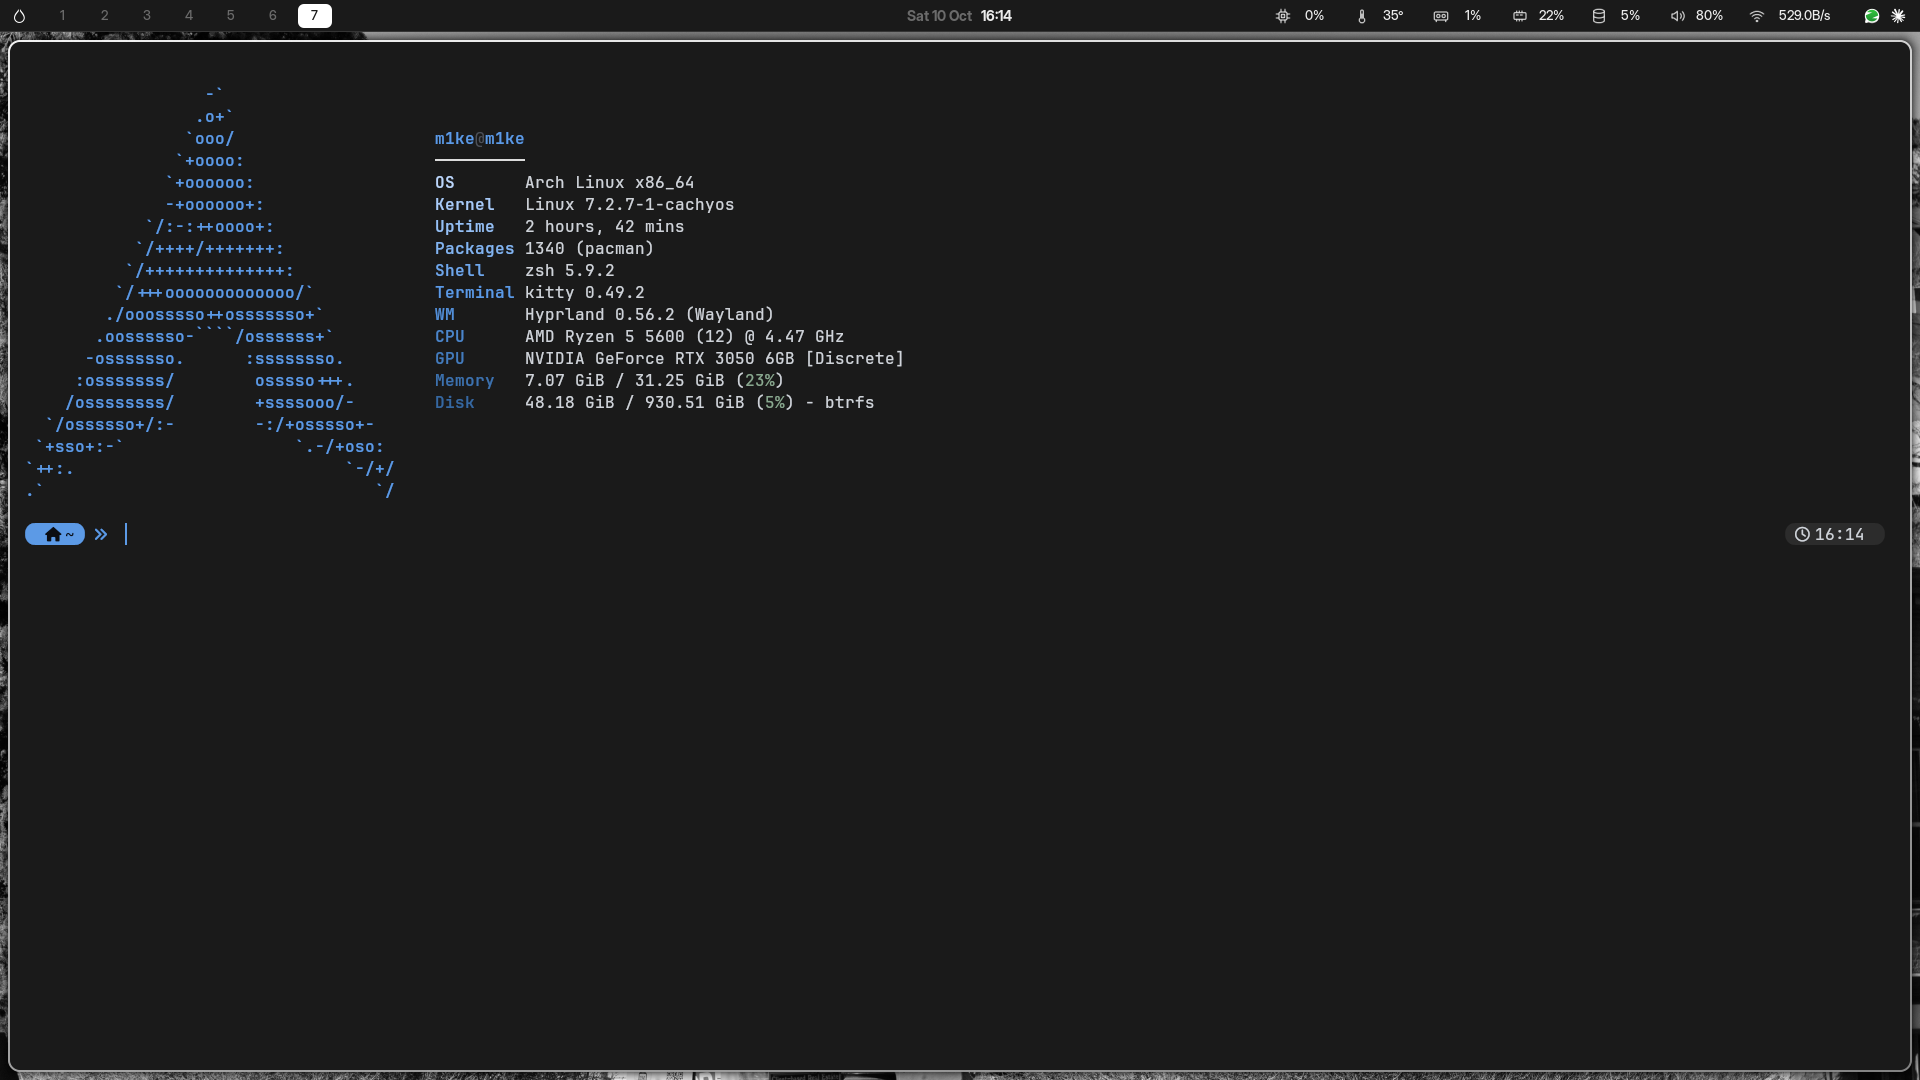
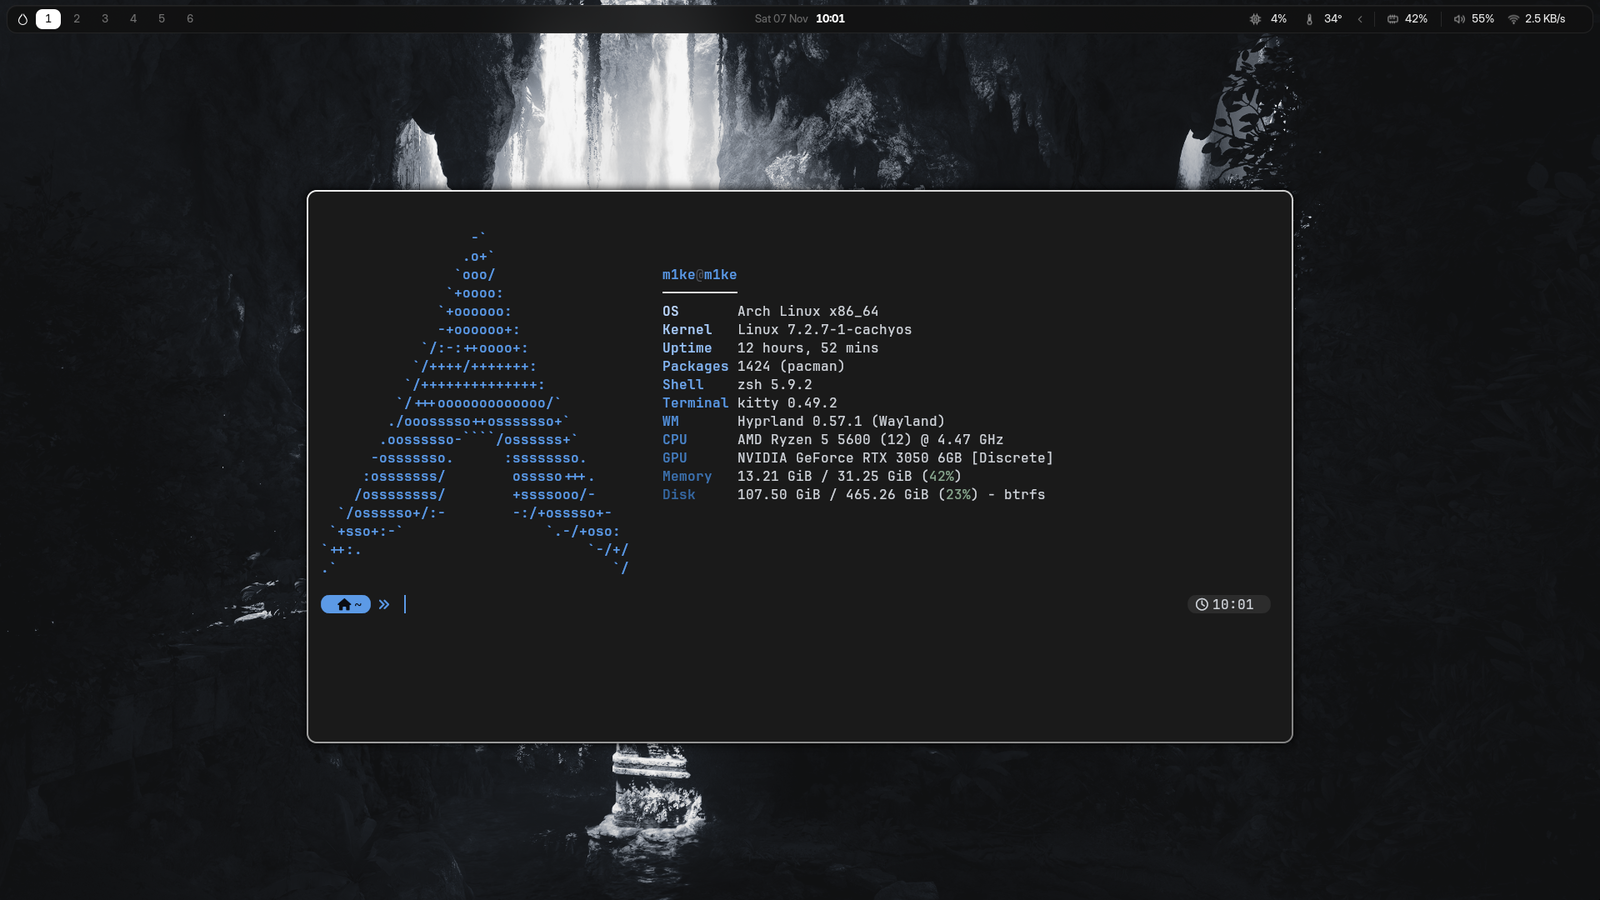
Capturas nuevas del README y menú de sesión más limpio
- escritorio, rofi, fondos, bloqueo y sesión capturados en un Hyprland
  aparte con la configuración actual (sin avatar ni ventanas personales)
- rofi-power: sin prompt encimado ni hueco de icono
- README: barra flotante y número real de paquetes del modo --visual

diff --git a/README.md b/README.md
@@ -11,7 +11,7 @@
 
 <img src="docs/escritorio.png" alt="Escritorio: Waybar, kitty con fastfetch y prompt starship" width="92%">
 
-<sub>Waybar con iconos SVG propios · kitty + fastfetch · prompt starship de una línea con pastillas</sub>
+<sub>Barra flotante con métricas reales · kitty + fastfetch · prompt starship de una línea con pastillas</sub>
 
 <br><br>
 
@@ -25,6 +25,18 @@
 
 <sub>Selector de fondos (<code>Ctrl + Alt + W</code>): tus carpetas, vista previa, fundido y fondo del bloqueo</sub>
 
+<br><br>
+
+<img src="docs/bloqueo.png" alt="Pantalla de bloqueo hyprlock" width="92%">
+
+<sub>hyprlock: hora en DM Serif Display, fecha, tu avatar (<code>~/Pictures/avatar.png</code>) y campo de cristal</sub>
+
+<br><br>
+
+<img src="docs/sesion.png" alt="Menú de sesión y notificaciones" width="70%">
+
+<sub>Menú de sesión con confirmación (<code>Super + Esc</code>) y notificaciones de mako a juego</sub>
+
 </div>
 
 ---
@@ -34,7 +46,7 @@
 | | |
 |---|---|
 | 🪟 **Hyprland** | Configuración en **Lua** (`hyprland.lua`): atajos, animaciones, reglas de monitor y ventanas. `hyprland.conf` queda de respaldo. |
-| 📊 **Waybar** | Métricas reales de CPU, temperatura, GPU, RAM, disco y red, con iconos SVG propios; batería y brillo para portátiles. |
+| 📊 **Waybar** | Una sola barra flotante casi opaca: 6 escritorios fijos, CPU y temperatura (con GPU y disco desplegables), RAM, audio y red en tiempo real (`net.sh`); batería y brillo en portátiles. |
 | 🔍 **Rofi** | Lanzador, selector de ventanas, portapapeles, emojis, wifi, bluetooth y menú de apagado. |
 | 🖥 **kitty + zsh + starship** | Prompt de una línea con pastillas, autosugerencias, resaltado de sintaxis, `zoxide`, `fzf` y `fastfetch`. |
 | 🖼 **Fondos** | Selector propio (quickshell): eliges las carpetas, buscas, pruebas sin guardar, cambia con fundido (`awww`) y recuerda el último. También pone el fondo del bloqueo. |
@@ -67,7 +79,7 @@ Para ver qué haría **sin cambiar nada** (ni pedir `sudo`):
 | Comando | Para qué sirve |
 |---|---|
 | `./install.sh` | **Todo**: paquetes, drivers según tu GPU, enlaces, servicios, tema y ajustes de rendimiento. |
-| `./install.sh --visual` | **Replicar solo el aspecto** en un portátil u otro equipo Arch: 38 paquetes, sin `-Syu`, sin drivers, sin tocar `/etc`. |
+| `./install.sh --visual` | **Replicar solo el aspecto** en un portátil u otro equipo Arch: 44 paquetes, sin `-Syu`, sin drivers, sin tocar `/etc`. |
 | `./install.sh --solo-config` | **No instala nada**: solo enlaza las configuraciones y aplica el tema. Vale en cualquier distro. |
 
 > En un equipo recién instalado, ejecuta antes `sudo pacman -Syu` si usas `--visual`, para no tener la base de datos de paquetes vieja.
